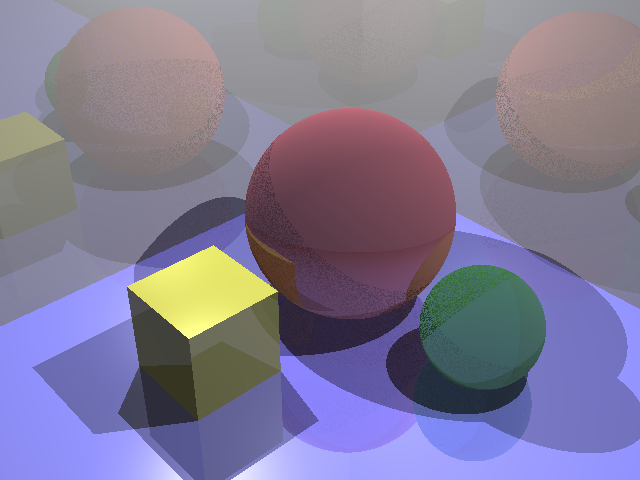
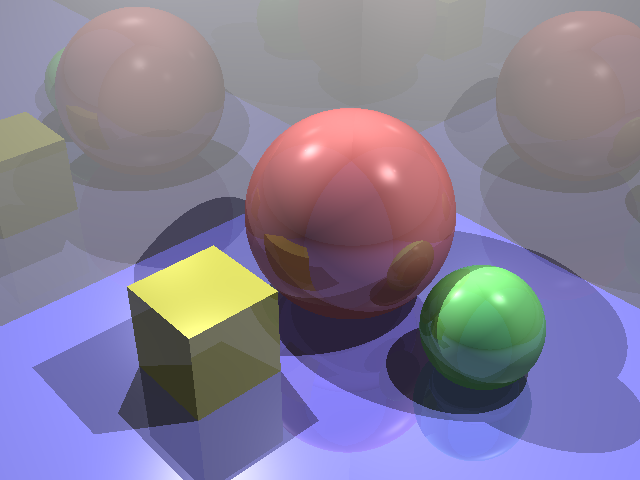
fixed sphere

diff --git a/Sphere.cpp b/Sphere.cpp
@@ -36,7 +36,7 @@ bool Sphere::hit( const Ray &r, double tmin, double tmax, SurfaceHitRecord &rec 
 
     rec.t = t;
     rec.p = r.pointAtParam(t);
-    rec.normal = r.pointAtParam(t).unitVector();
+    rec.normal = (r.pointAtParam(t) - center).unitVector();
     rec.material = material;
 
     return true;
@@ -60,5 +60,6 @@ bool Sphere::shadowHit( const Ray &r, double tmin, double tmax ) const
     double t2 = (-b + sqrt(d)) / (2 * a);
     if (t1 >= 0) t = t1;
     else t = t2;
+    if (t < 0) return false;
     return (t >= tmin && t <= tmax);
 }
